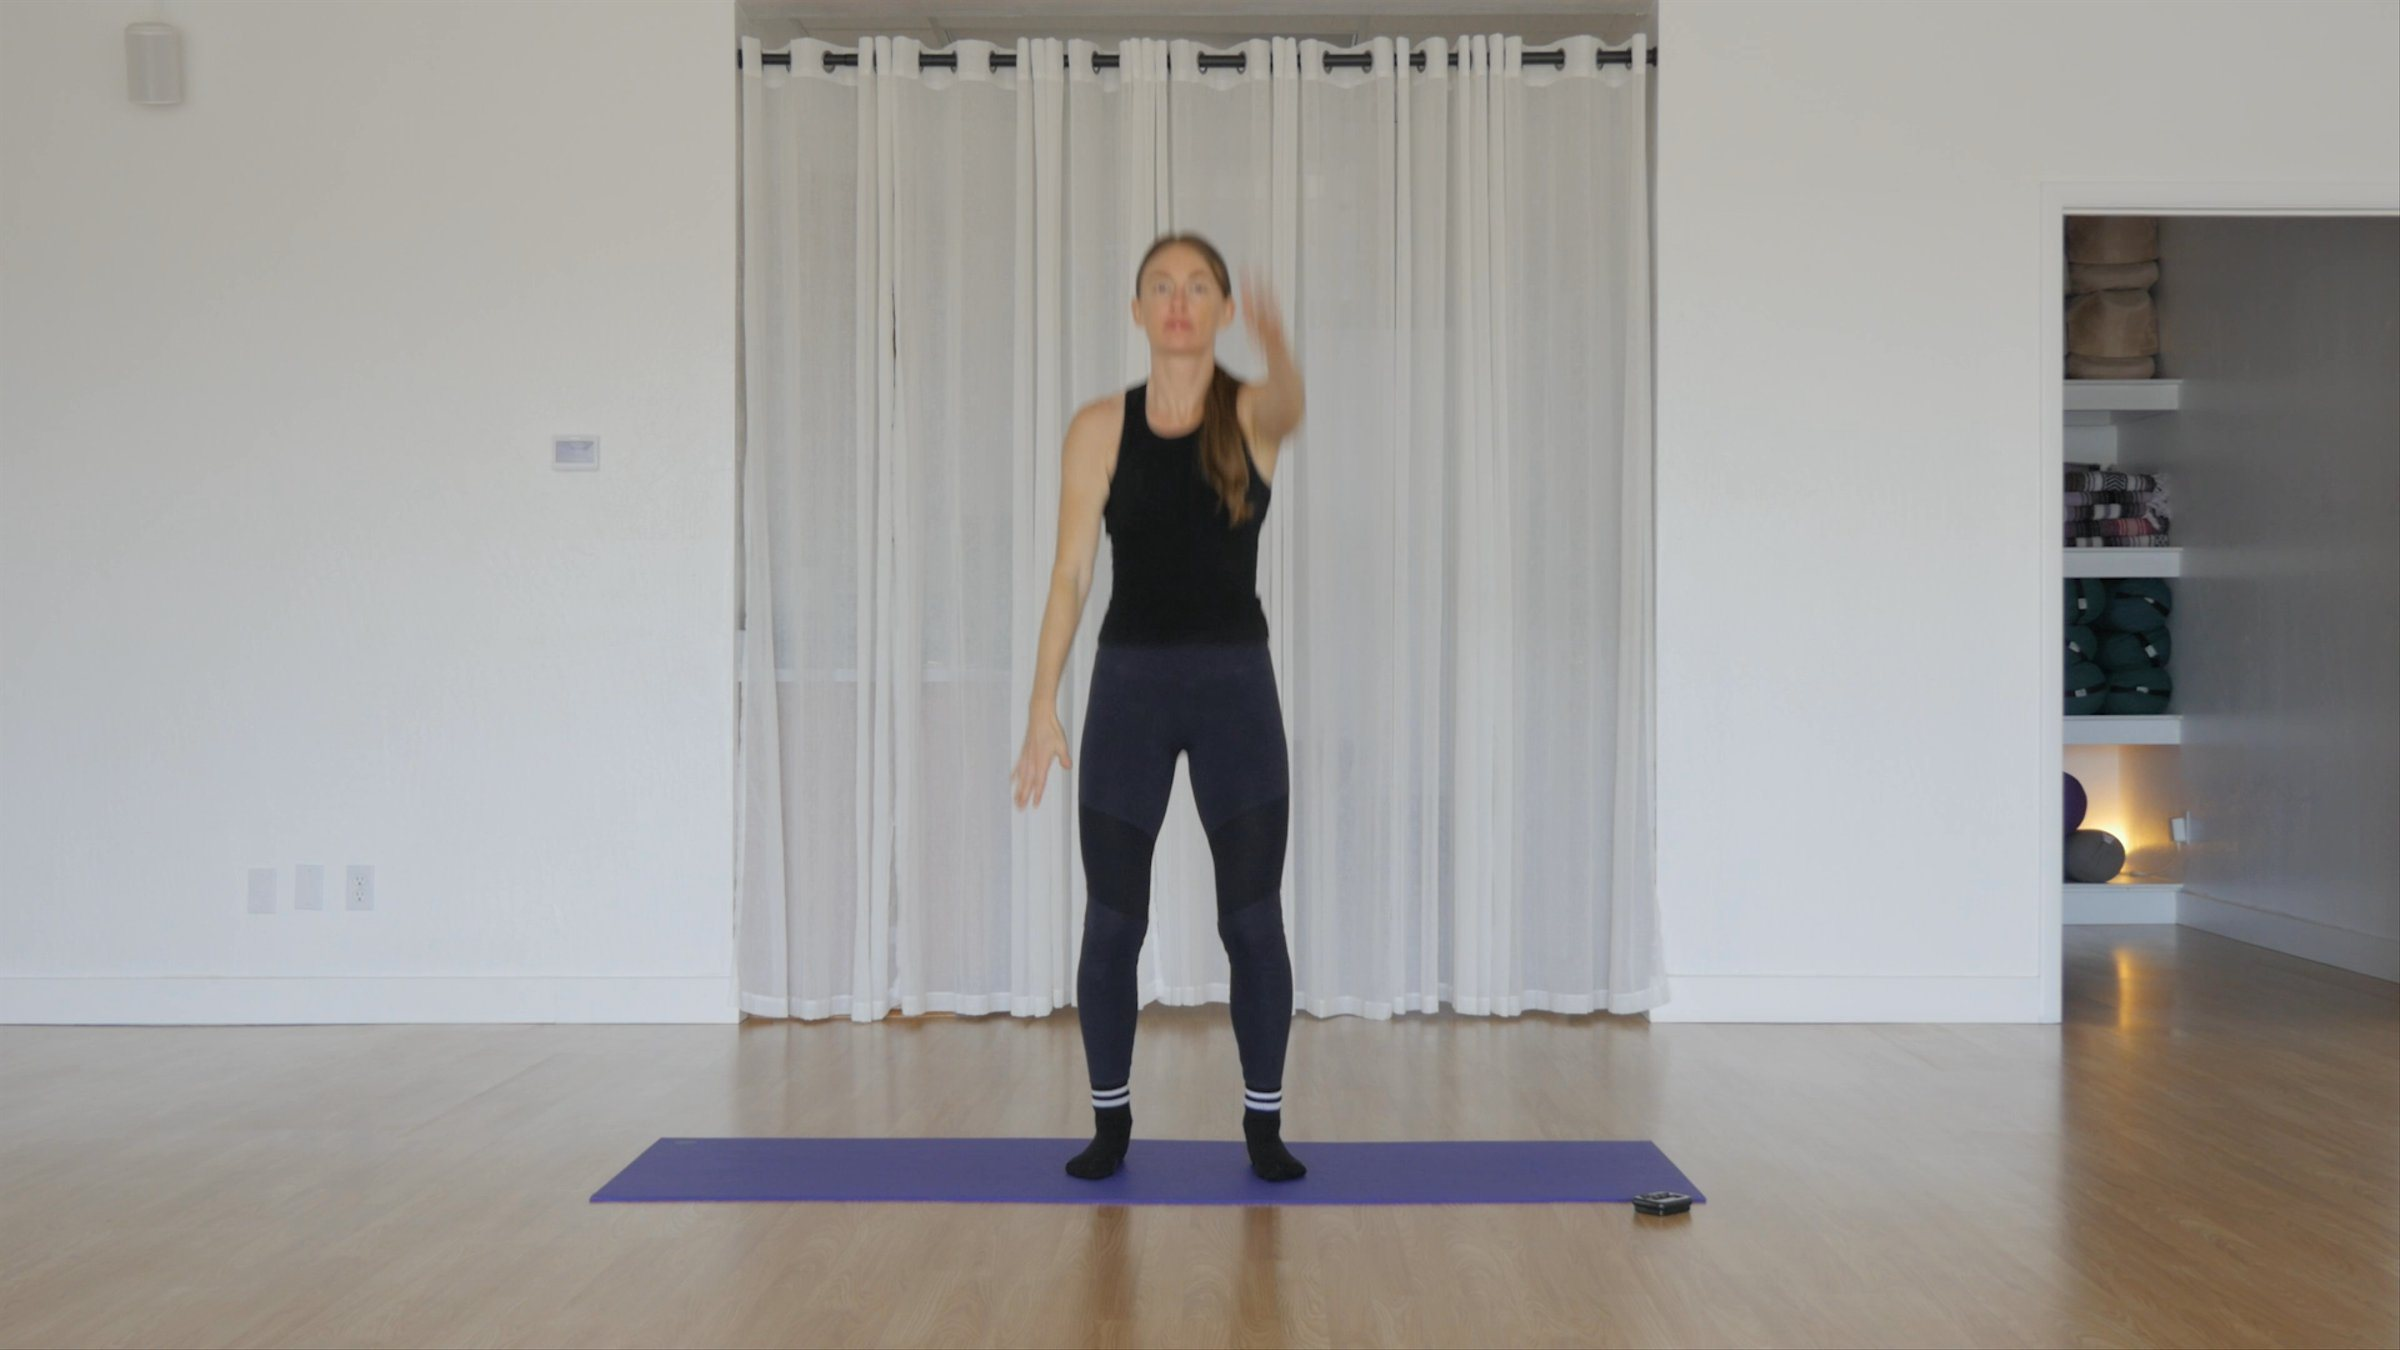
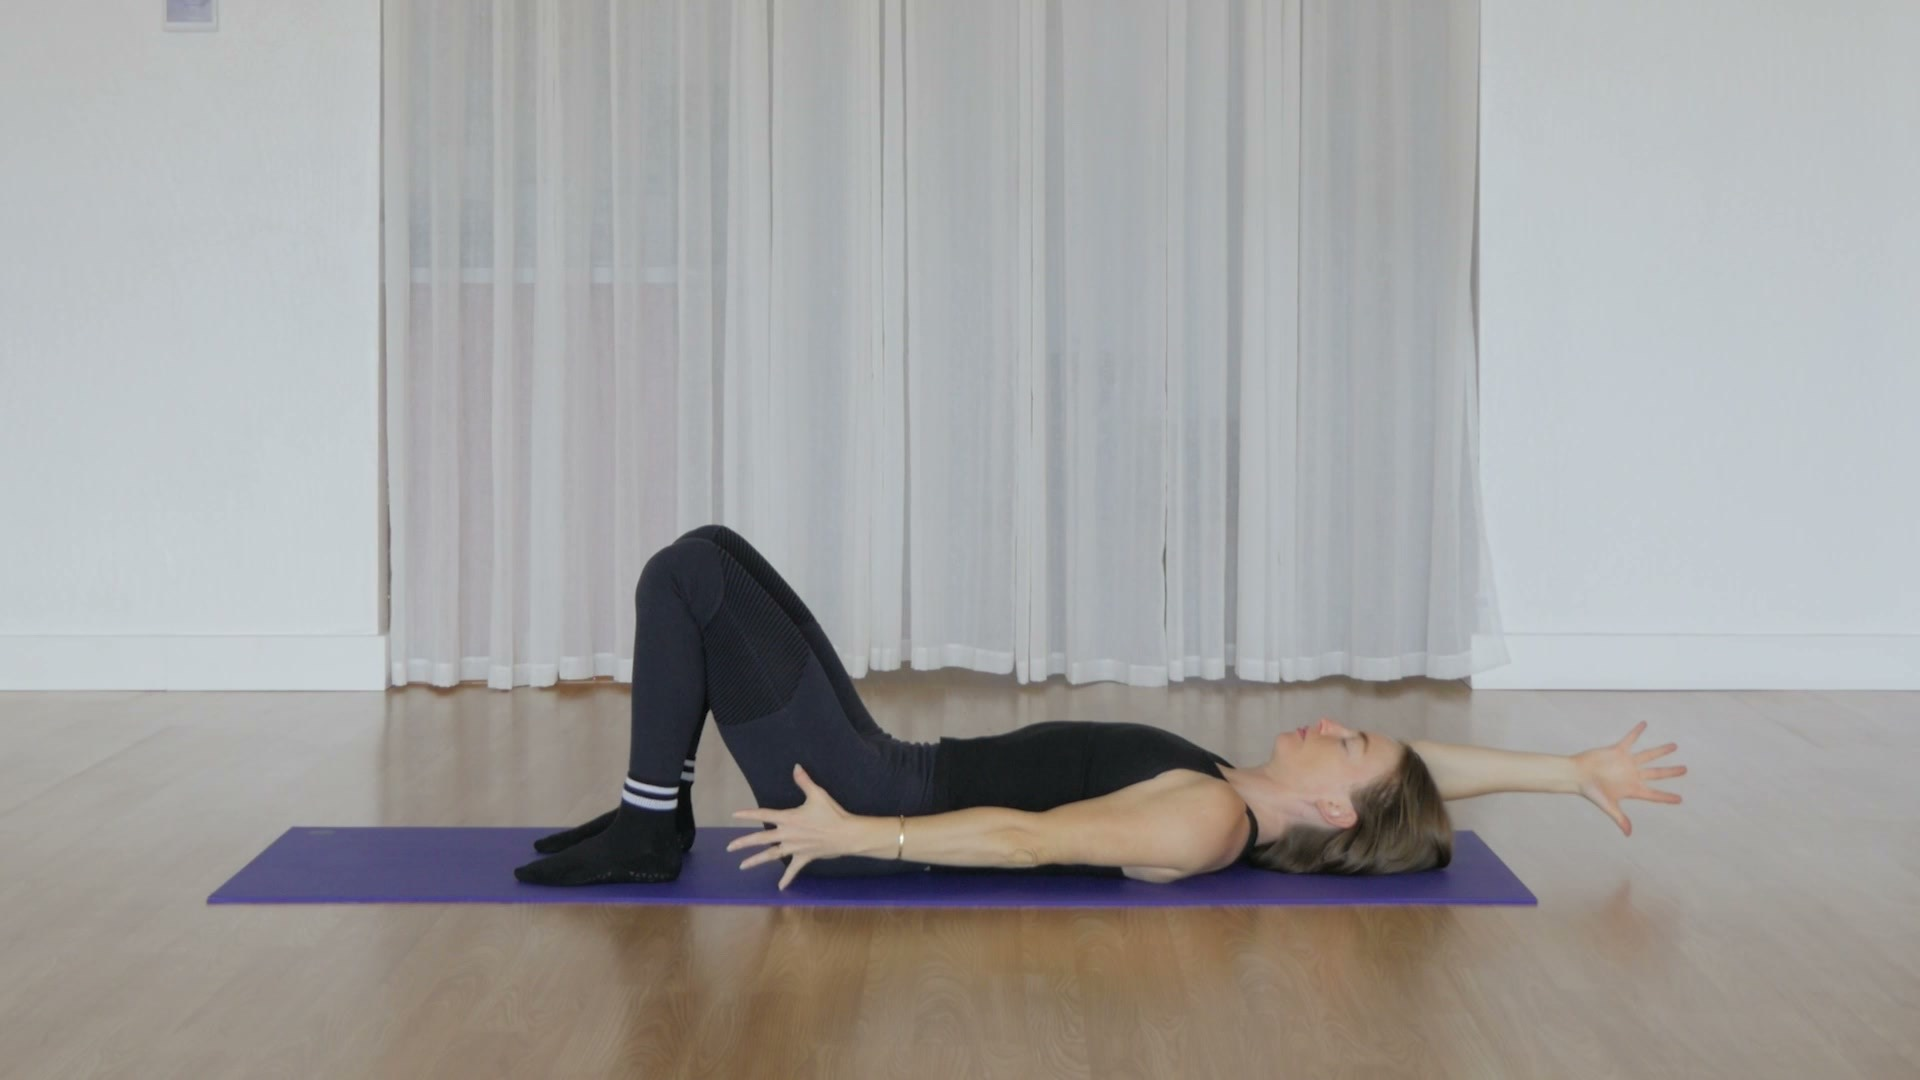
Use the real hero footage on the Posture Reset landing page
Replaces the 16-second Day 5 placeholder with the purpose-shot 80-second
loop, and deletes the placeholder asset so it stops billing storage and
stops being publicly playable.

Audio is stripped before upload rather than relying on the `muted`
attribute, so a browser that ignores it has nothing to play. New poster
frame cut from the same footage at 1.5s — the previous one was a frame
of the placeholder, and would have flashed the wrong shot before
playback started. Alt text updated to match.

Adds scripts/upload-video.mjs, the missing counterpart to make-clip.mjs:
it uploads a local file and, with --mp4, requests the 720p static
rendition. That rendition is what makes stream.mux.com/<id>/720p.mp4
resolve at all — the admin uploader does not set it, because classes
play through Mux Player over HLS, so a hero uploaded that way would
silently never appear.

diff --git a/apps/web/src/components/products/posture-landing.tsx b/apps/web/src/components/products/posture-landing.tsx
@@ -122,13 +122,19 @@ const TESTIMONIALS = [
 ];
 
 /**
- * PLACEHOLDER hero loop — 16 seconds cut from Day 5 (50–66s, the arm sweep) so
- * the treatment can be judged before the real thing is shot. It is its own Mux
- * asset, not the class: publishing a class's playback id would publish the
- * class. Replace this id when Ayla's purpose-shot clip is up, and delete the
- * placeholder asset. See scripts/make-clip.mjs.
+ * The hero loop — 80 seconds, purpose-shot, silent by design (the audio track
+ * is stripped before upload, so a browser that ignores `muted` still has
+ * nothing to play).
+ *
+ * Its own Mux asset rather than any class's playback id: these assets are
+ * public-policy, so publishing a class's id would publish the class.
+ *
+ * Uploaded with a **720p static rendition** — the <video> below points at the
+ * MP4 directly, which only exists because the asset was created with
+ * `static_renditions`. Re-upload with `scripts/upload-video.mjs --mp4` if this
+ * is ever replaced; without it the URL 404s and the still silently stays put.
  */
-const HERO_LOOP_PLAYBACK_ID = "GoelX02f4fhezFpJ00hhUpQaLjo9TjYHI3m6QKK02znOlc";
+const HERO_LOOP_PLAYBACK_ID = "4bxf0121upWPVXp00tpWmuL6dpPMVhOYQ8Vu1XDdF01KC8";
 
 const ctaCls =
   "inline-flex items-center justify-center rounded-full bg-linear-to-r from-[#7A5FEA] to-[#4CC7E0] px-10 py-4 text-lg font-semibold text-white transition hover:opacity-90 disabled:cursor-not-allowed disabled:opacity-60";
@@ -185,7 +191,7 @@ export function PostureLanding({
           </div>
           <HeroMedia
             poster="/posture/hero-poster.jpg"
-            alt="Standing tall on the mat, arms sweeping overhead"
+            alt="Lying on the back with knees bent, arms sweeping open along the floor"
             videoSrc={`https://stream.mux.com/${HERO_LOOP_PLAYBACK_ID}/720p.mp4`}
             imageSizes="(min-width: 1140px) 1052px, 100vw"
             className="mt-6 sm:mt-[30px]"
